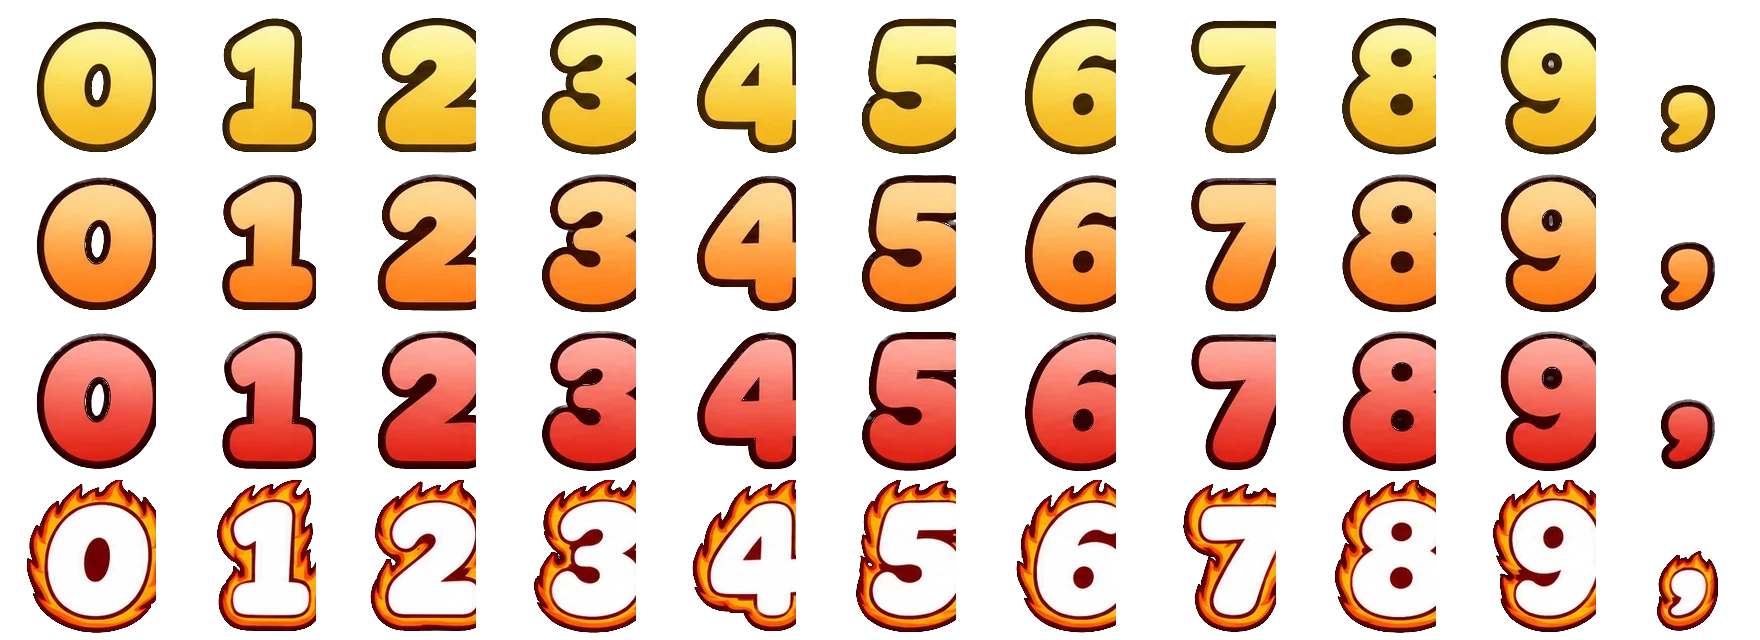
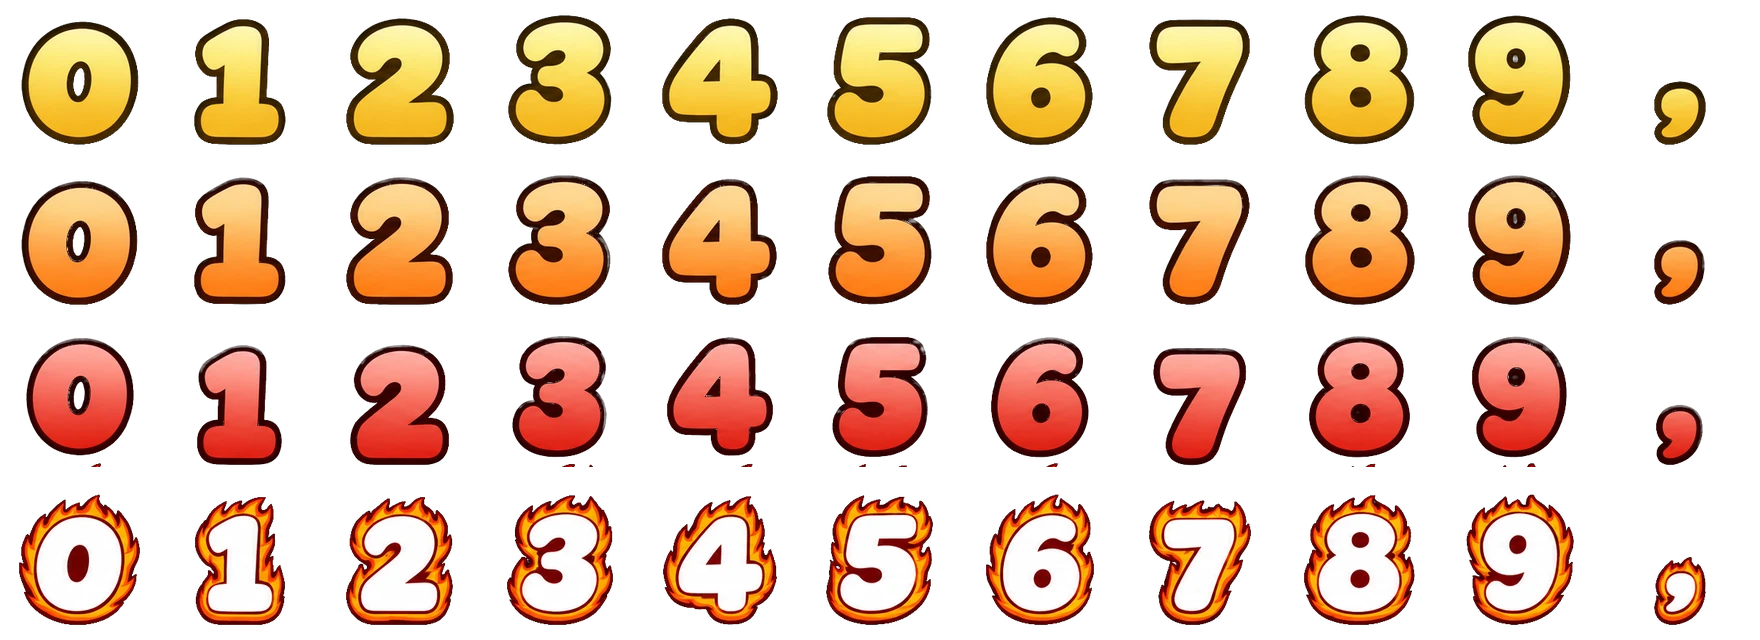
피해 숫자 그림 정리: 글자마다 가운데 · 같은 기준선으로 다시 자름, 간격 맞춤 · 연타 글씨를 숫자 바닥에 맞춤 · 큰 숫자는 무대 폭 60%에 맞춰 줄임
Claude-Session: https://claude.ai/code/session_01UsiBrNXA9CeyuCK3H3wzSA

diff --git a/mrstage/stage.html b/mrstage/stage.html
@@ -5394,9 +5394,9 @@ html.mr-uikit body #app#app#app #battle-stage#battle-stage{position:relative!imp
 .lm-dmg.resist{color:#b8c0cc;font-size:11px}
 .lm-dmg.fin{color:#ff5a3c;font-size:22px;-webkit-text-stroke:3px #1b1020;animation:lmDmgFin 1.7s cubic-bezier(.2,1.5,.4,1) forwards}.lm-dmg.fin small{color:#ffe08a;font-size:10px}   /* (DHL 10-28) 마지막 한 방 숫자 30→22px */
 /* (DHL 11-07) 난타 숫자 · 처치 피해 단계 */
-#lm-combo{position:absolute;z-index:42;pointer-events:none;translate:-50% -50%;display:none;align-items:baseline;gap:3px;scale:var(--s,1);transition:scale .2s;
+#lm-combo{position:absolute;z-index:42;pointer-events:none;translate:-50% -50%;display:none;align-items:flex-end;gap:0;scale:var(--s,1);transition:scale .2s;
   font:900 26px/1 'Noto Sans KR',system-ui,sans-serif;color:#fff2c4;-webkit-text-stroke:4px #2a1800;paint-order:stroke fill}
-#lm-combo.on{display:flex}#lm-combo small{font-size:.5em;color:#fff;-webkit-text-stroke:3px #2a1800}
+#lm-combo.on{display:flex}#lm-combo small{font-size:15px;line-height:1;color:#fff;-webkit-text-stroke:3px #2a1800;margin:0 0 .3em -.1em}   /* 숫자 그림 바닥(칸 92%)에 글자 바닥을 맞춤 */
 #lm-combo.t2 b{color:#ffd76a}#lm-combo.t3 b{color:#ff9a3c}#lm-combo.t4 b{color:#ff5a3c}
 .lm-roll{position:absolute;z-index:44;pointer-events:none;translate:-50% -50%;text-align:center;scale:var(--z,1);font:900 26px/1 'Noto Sans KR',system-ui,sans-serif;color:#fff;-webkit-text-stroke:4px #1b1020;paint-order:stroke fill;font-variant-numeric:tabular-nums;transition:opacity .35s,translate .35s}
 .lm-roll small{display:block;font-size:11px;color:#ffe08a;-webkit-text-stroke:3px #1b1020;margin-bottom:2px}
@@ -5405,9 +5405,9 @@ html.mr-uikit body #app#app#app #battle-stage#battle-stage{position:relative!imp
 .lm-big.brk b{color:#fff;-webkit-text-stroke:5px #6a0010}
 #lm-cine{position:fixed;inset:0;z-index:9990;pointer-events:none}
 .lm-roll b,#lm-combo b{display:inline-flex;align-items:center;white-space:nowrap}
-.dg{display:inline-block;width:1.1em;height:1.1em;margin:0 -.17em;background:url(fx/route/dmg_digits.webp) 0 0/1100% 400% no-repeat;filter:drop-shadow(0 2px 2px #000a)}
-.dg.cm{margin:0 -.3em}
-.lm-roll{-webkit-text-stroke:0!important}.lm-roll b{font-size:34px}#lm-combo b{font-size:30px}
+.dg{display:inline-block;width:1em;height:1em;margin:0 -.15em;background:url(fx/route/dmg_digits.webp) 0 0/1100% 400% no-repeat;filter:drop-shadow(0 2px 2px #000a)}
+.dg.cm{margin:0 -.3em}.dg.r3{margin:0 -.11em}.dg.r3.cm{margin:0 -.27em}
+.lm-roll{-webkit-text-stroke:0!important}.lm-roll b{font-size:34px}#lm-combo b{font-size:38px}
 #lm-cine i{position:absolute;left:0;right:0;height:0;background:#000;transition:height .3s ease-out}#lm-cine i:first-child{top:0}#lm-cine i:last-child{bottom:0}
 #lm-cine.on i{height:11%}
 .lm-dmg.flur{font-size:13px;color:#ffe8c2;-webkit-text-stroke:2.5px #1b1020;animation:lmFlur .85s ease-out forwards}
@@ -7988,7 +7988,7 @@ let isGameOver = false;
       try{en.animate([{filter:'brightness(2.2)'},{filter:'none'}],{duration:90});}catch(e){}},i*gap));}
   /* (DHL 11-08) 피해 숫자 그림 (dmg_digits.webp · 11열 × 4행 = 0~9 · 쉼표 / 금 · 주황 · 빨강 · 흰 불꽃) */
   const DIG='0123456789,';
-  function dig(str,row){return [...String(str)].map(ch=>{const i=DIG.indexOf(ch);if(i<0)return '';return `<i class="dg${ch===','?' cm':''}" style="background-position:${(i/10*100).toFixed(2)}% ${(row/3*100).toFixed(2)}%"></i>`;}).join('');}
+  function dig(str,row){return [...String(str)].map(ch=>{const i=DIG.indexOf(ch);if(i<0)return '';return `<i class="dg${ch===','?' cm':''}${row===3?' r3':''}" style="background-position:${(i/10*100).toFixed(2)}% ${(row/3*100).toFixed(2)}%"></i>`;}).join('');}
   /* A: 연타 카운터 */
   let comboEl=null,comboT=0;
   function comboShow(n,col){if(!comboEl){comboEl=document.createElement('div');comboEl.id='lm-combo';stage.appendChild(comboEl);}
@@ -8016,8 +8016,8 @@ let isGameOver = false;
       const k=Math.min(1,el/dur),e=1-Math.pow(1-k,2.3),v=total*e;B.innerHTML=dig(fmt(v),killed?{1:0,2:1,5:2,10:3}[tier]:0);
       const hpD=Math.max(hpEnd,Math.min(hpS,hp0-v));if(Math.abs(hpD-hp)>=.5||(k>=1&&hp!==hpEnd)){hp=k>=1?hpEnd:hpD;setHud();}
       if(killed){const r=v/hp0,t=r>=10?10:r>=5?5:r>=2?2:1;if(t!==tier){tier=t;d.className='lm-roll t'+t;try{d.animate([{scale:'1.35'},{scale:'1'}],{duration:200,easing:'cubic-bezier(.2,1.8,.4,1)'});}catch(e){}}
-        d.style.setProperty('--z',(1+Math.min(.85,Math.log2(1+r)*.2)).toFixed(2));}
-      {const W=stage.clientWidth,z=parseFloat(d.style.getPropertyValue('--z'))||1,hw=d.offsetWidth*z/2,x0=en?en.offsetLeft:W*.7;d.style.left=Math.max(hw+8,Math.min(x0,W-hw-8))+'px';}   /* 숫자가 커져도 무대 밖으로 안 나감 */
+        d.style.setProperty('--z',(1+Math.min(.45,Math.log2(1+r)*.12)).toFixed(2));}
+      {const W=stage.clientWidth;let z=parseFloat(d.style.getPropertyValue('--z'))||1;if(d.offsetWidth*z>W*.6){z=W*.6/d.offsetWidth;d.style.setProperty('--z',z.toFixed(3));}const hw=d.offsetWidth*z/2,x0=en?en.offsetLeft:W*.7;d.style.left=Math.max(hw+8,Math.min(x0,W-hw-8))+'px';}   /* 숫자가 커져도 무대 밖으로 안 나감 */
       if(now-tickT>60){tickT=now;lmSnd('sfx_combo_tick',{vol:.28,rate:Math.min(2,1+(killed?v/hp0:v/Math.max(1,total))*.08),gap:40});}
       if(!broke&&v>=hp0){broke=true;holdTo=now+(boss?380:200);   // 체력 0 = 격파
         lmSnd('sfx_score_over',{vol:.8});try{MRFX.flash?.(stage,'rgba(255,255,255,.8)');MRFX.shake(stage,'l',true);}catch(e){}
